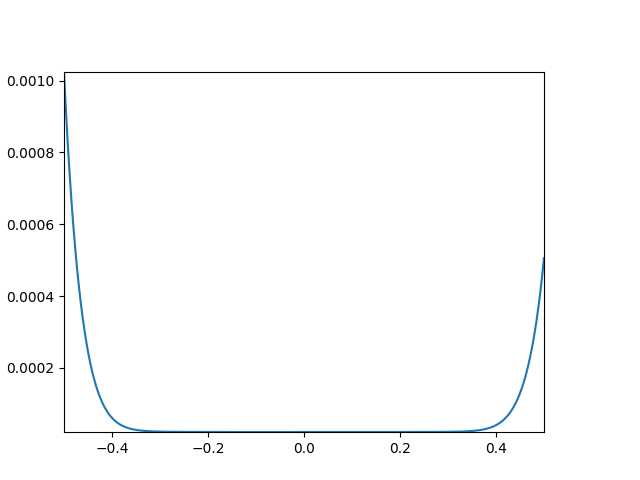
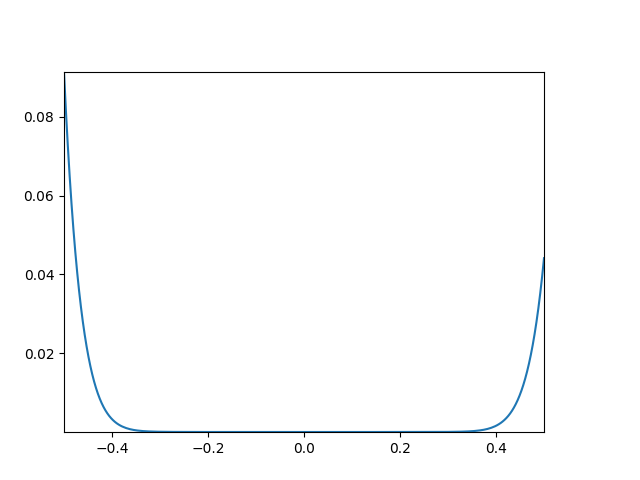
v

diff --git a/OptimalPos.py b/OptimalPos.py
@@ -10,7 +10,7 @@ params = [0.04,10/52,1,5/52,0.02,10/52,1.5,5/52]
 benchmark = False
 
 k = 8
-N = 200
+N = 50
 a = np.linspace(0.5,2,N)
 W = 1
 M = [-0.5,0.5]
